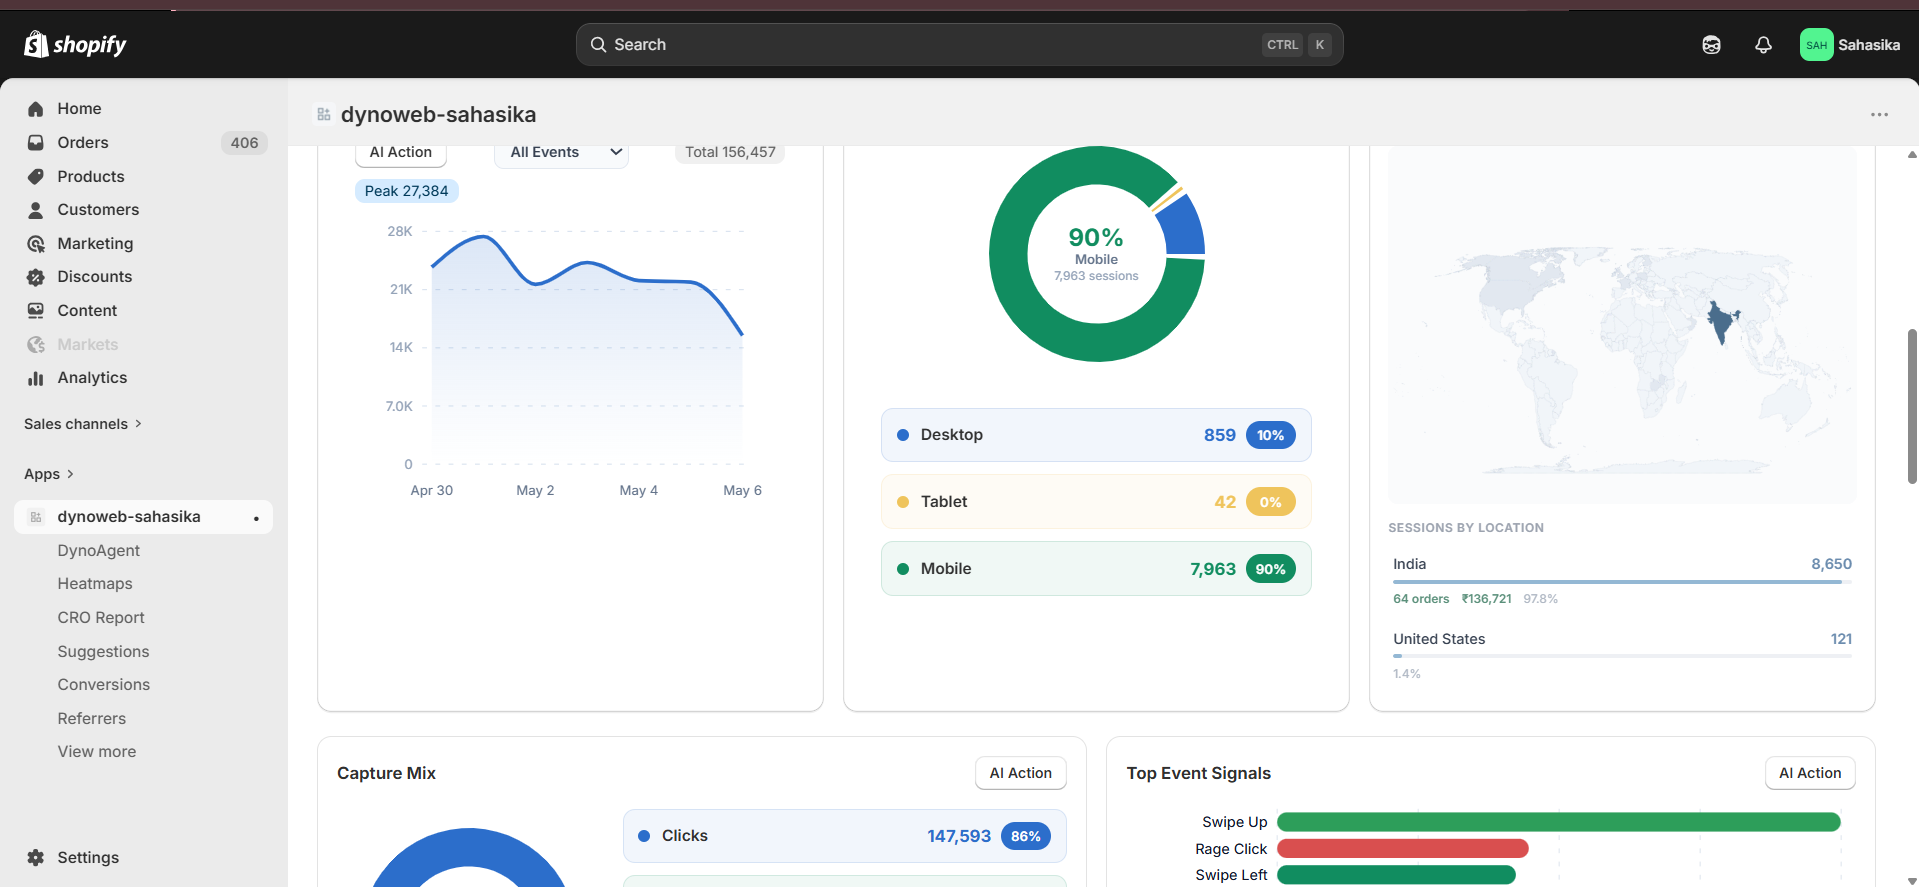
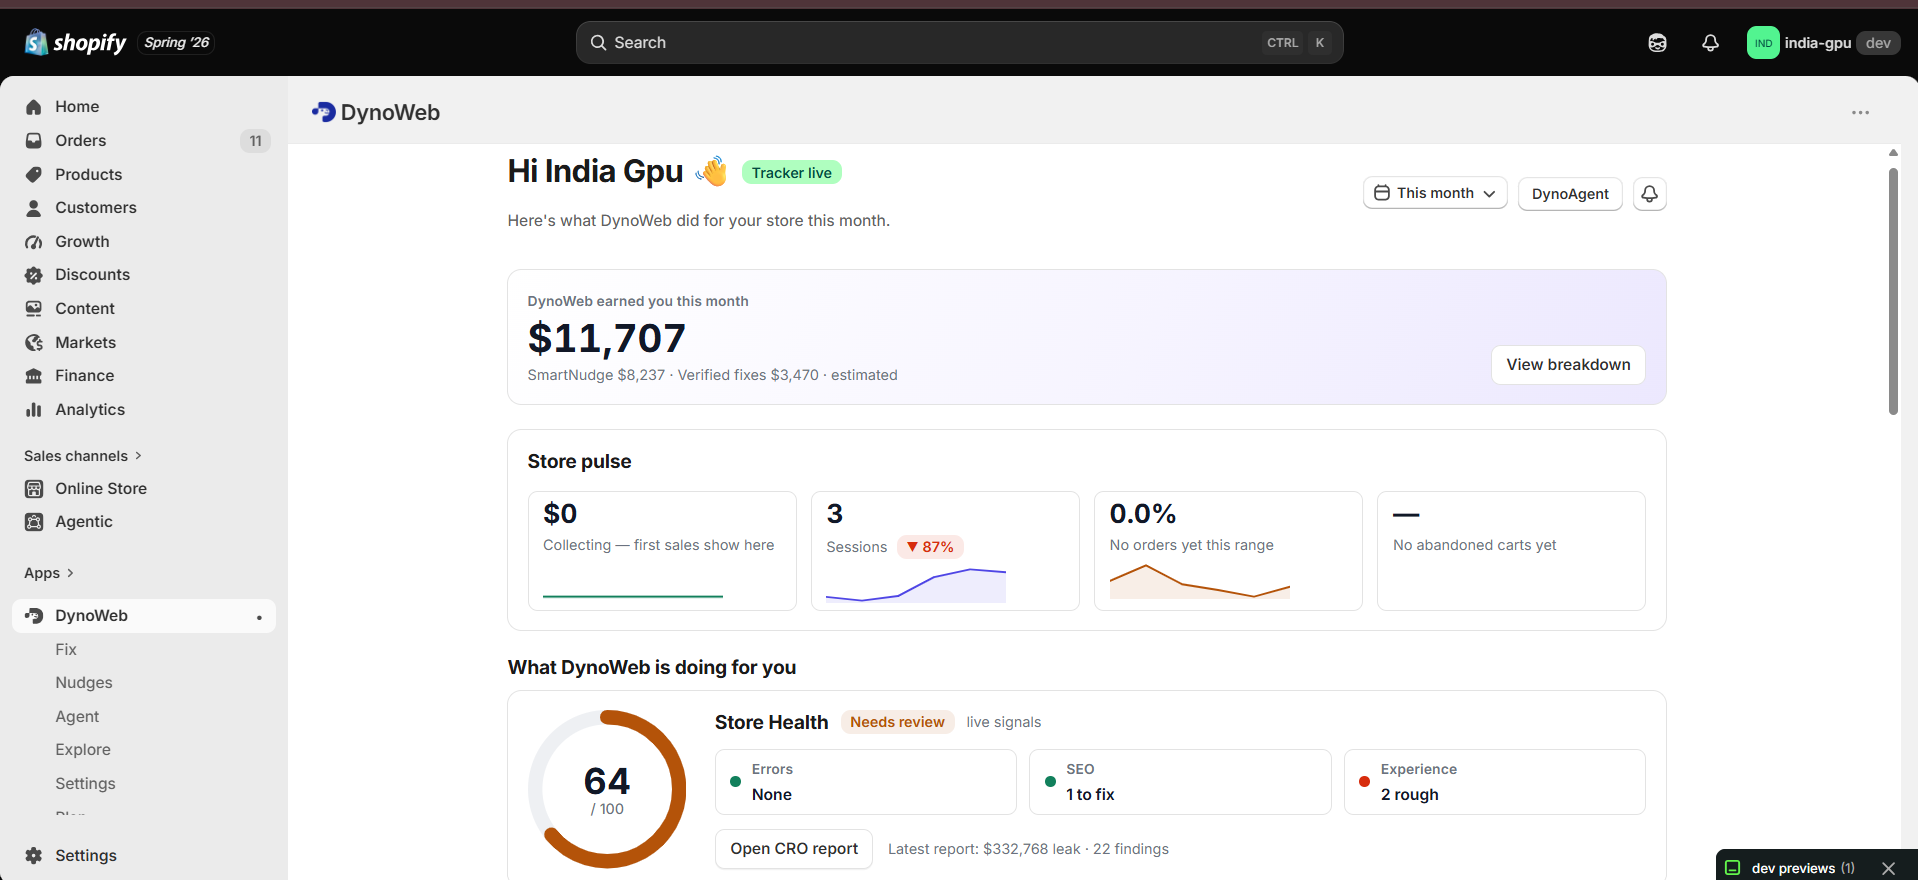
dashboard update

diff --git a/app/components/Features.tsx b/app/components/Features.tsx
@@ -3,7 +3,6 @@ import { useState, useRef, useEffect } from "react";
 import LightRays from "@/components/LightRays";
 
 const mockupImgPaths = [
-  "/VisitorTracking.png",
   "/Dashboard.png",
   "/Heatmaps.png",
   "/Replays.png",
@@ -29,30 +28,17 @@ interface Feature {
 
 const features: Feature[] = [
   {
-    id: "tracking", tab: "Visitor Tracking",
-    headline: "Automatic Visitor Tracking\n— Invisible & Lightweight",
-    subline: "Invisible tracker, powerful insights.",
-    bullets: [
-      { title: "11 Behavioral Signals", desc: "Clicks, rage clicks, dead clicks, error clicks, mouse shaking, scroll depth, form interactions, mobile gestures, fat finger taps, element visibility, page views." },
-      { title: "Session Intelligence", desc: "Bot filtering, session-level tracking across pages, device and country detection." },
-      { title: "Privacy-First", desc: "All data anonymized — no personal information collected, ever." },
-      { title: "Full Control", desc: "Toggle individual signals on or off from Settings. Native Shopify app extension — no code pasted into your theme." },
-    ],
-    caption: "~34 KB · gzipped · 11 signals",
-    videoSrc: "/videos/ai-builder.mp4",
-    icon: (<svg width="14" height="14" viewBox="0 0 24 24" fill="none" stroke="currentColor" strokeWidth="2" strokeLinecap="round" strokeLinejoin="round"><path d="M1 12s4-8 11-8 11 8 11 8-4 8-11 8-11-8-11-8z"/><circle cx="12" cy="12" r="3"/></svg>),
-  },
-  {
     id: "dashboard", tab: "Dashboard",
-    headline: "Everything Happening in\nYour Store — Right Now",
-    subline: "Live metrics, zero delay.",
+    headline: "What DynoWeb Earned You —\nAnd What to Fix Next",
+    subline: "The money first. Then the next move.",
     bullets: [
-      { title: "Live Event Counter", desc: "Trend arrows show direction vs. previous period — up or down at a glance." },
-      { title: "Top Pages", desc: "Pages ranked by visitor engagement so you know where attention goes." },
-      { title: "Charts & Breakdowns", desc: "Event frequency chart, device breakdown, and signal type distribution." },
-      { title: "Smart Filters", desc: "Date range, device type, country, region. Plan usage indicator so you always know where you stand." },
+      { title: "Money Earned, Up Front", desc: "One headline total for the month — SmartNudge revenue and verified fixes, split out. Estimated against your own trend, never guaranteed." },
+      { title: "Store Pulse", desc: "Attributed sales, sessions, conversion rate, and the revenue sitting in abandoned carts — each with its real daily sparkline and trend." },
+      { title: "Store Health Score", desc: "One live score out of 100 from Performance, Errors, SEO, and Experience — every factor clickable straight through to the fix." },
+      { title: "The Next Move, Not Just Numbers", desc: "A card per capability showing what it has done lately and the one action worth taking. Cards with nothing to report stay hidden." },
+      { title: "Speed, Locations & Plan", desc: "A plain-language speed verdict with real-user Core Web Vitals, visitor locations by revenue, and sessions used against your cap." },
     ],
-    caption: "Real-time visibility into every session.",
+    caption: "The money, the health, the next move.",
     videoSrc: "/videos/template-system.mp4",
     icon: (<svg width="14" height="14" viewBox="0 0 24 24" fill="none" stroke="currentColor" strokeWidth="2" strokeLinecap="round" strokeLinejoin="round"><rect x="3" y="3" width="18" height="18" rx="2"/><path d="M7 17v-6"/><path d="M12 17v-2"/><path d="M17 17v-8"/></svg>),
   },
@@ -309,7 +295,6 @@ export default function FeaturesVideoSection() {
 
   const feat = features[active];
   const mockupImgMap: Record<string, string> = {
-    tracking: "/VisitorTracking.png",
     dashboard: "/Dashboard.png",
     heatmaps: "/Heatmaps.png",
     replays: "/Replays.png",
@@ -680,7 +665,7 @@ export default function FeaturesVideoSection() {
             <div className="divider-line"/>
             <h2 className="sec-heading">See DynoWeb in action.</h2>
             <p style={{fontSize:"clamp(.875rem, 1.05vw, 1.5rem)",color:"rgba(255,255,255,0.3)",lineHeight:1.7,maxWidth:"28rem"}}>
-              Sixteen capabilities working as one continuous loop — from raw signal to the fix, and the money it made.
+              Fifteen capabilities working as one continuous loop — from raw signal to the fix, and the money it made.
             </p>
           </div>
 
